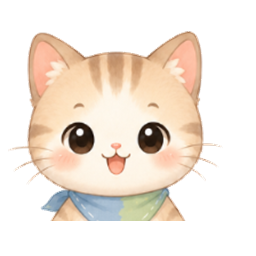
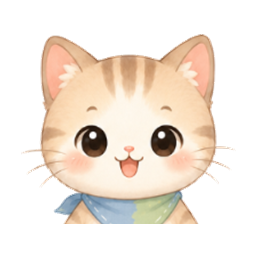
meowdoku

Changed region(s): [[0.0312, 0.0938, 0.9062, 0.875]]

diff --git a/public/games/meowdoku/index.html b/public/games/meowdoku/index.html
@@ -10,4 +10,4 @@
 </section></main>
 <div id="modal" class="modal" aria-hidden="true"><div class="modal-card"><div id="modal-icon" class="modal-icon">🎉</div><h2 id="modal-title"></h2><p id="modal-copy"></p><div id="modal-stats" class="modal-stats"></div><button id="modal-primary" class="primary-btn"></button><button id="modal-secondary" class="text-btn"></button></div></div>
 <div id="tutorial-modal" class="modal" aria-hidden="true"><div class="modal-card tutorial-card"><div id="tutorial-icon" class="modal-icon">🎨</div><small>TUTORIAL <span id="tutorial-step">1 / 4</span></small><h2 id="tutorial-title"></h2><p id="tutorial-copy"></p><div id="tutorial-demo" class="tutorial-demo"></div><button id="tutorial-next" class="primary-btn">Next</button><button id="tutorial-skip" class="text-btn">Skip tutorial</button></div></div>
-<link rel="stylesheet" href="tutorial-fixes.css?v=20260814-cat149-v3"><script src="game.js?v=20260814-cat149-v3"></script></body></html>
+<link rel="stylesheet" href="tutorial-fixes.css?v=20260814-cat149-v4"><script src="game.js?v=20260814-cat149-v4"></script></body></html>
